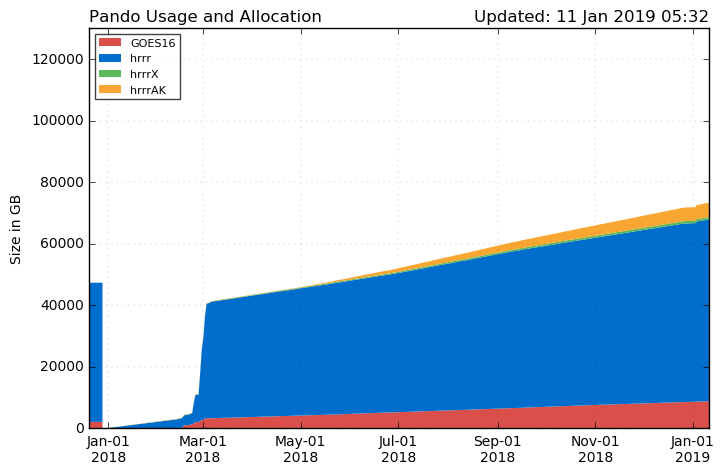
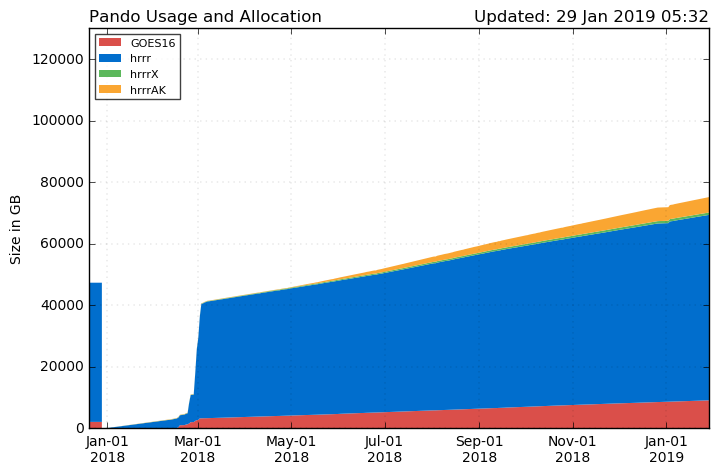
updates

diff --git a/Pando_archive/index.html b/Pando_archive/index.html
@@ -37,12 +37,12 @@
         </div>
   <br>
   <script src='./js/pando_status.js'></script>
-    <center><font size=12> 73.5 TB out of 130 TB</font>
+    <center><font size=12> 75.3 TB out of 130 TB</font>
     <div class="progress" style="max-width:700px;height:35px">
             <div class="progress-bar progress-bar-danger" role="progressbar" style="width:7%">
               <font size=4></font>
             </div>
-            <div class="progress-bar progress-bar-primary" role="progressbar" style="width:45%">
+            <div class="progress-bar progress-bar-primary" role="progressbar" style="width:46%">
               <font size=4></font>
             </div>
             <div class="progress-bar progress-bar-success" role="progressbar" style="width:1%">
@@ -64,9 +64,9 @@
         <th style='text-align:center'>Estimated Full Date</th>
       </tr>
       <tr>
-        <td>100.56 GB</td>
-        <td>561</td>
-        <td>25 July 2020</td>
+        <td>101.71 GB</td>
+        <td>537</td>
+        <td>19 July 2020</td>
       </tr>
     </table>
     <table class="table table-bordered" style='text-align:center;max-width:700px'>
@@ -80,14 +80,14 @@
       <tr>
         <th>sfc</th>
         <td>--</td>
-        <td>24.37</td>
-        <td>0.00</td>
-        <td>8.71</td>
+        <td>23.80</td>
+        <td>1.10</td>
+        <td>9.05</td>
       </tr>
       <tr>
         <th>prs</th>
         <td>--</td>
-        <td>3.58</td>
+        <td>3.56</td>
         <td>0.00</td>
         <td>0.00</td>
       </tr>
@@ -100,10 +100,10 @@
       </tr>
       <tr>
         <th>Total</th>
-        <th>16.5 GB</th>
-        <th>27.95 GB</th>
-        <th>0.00 GB</th>
-        <th>8.71 GB</th>
+        <th>16.4 GB</th>
+        <th>27.35 GB</th>
+        <th>1.10 GB</th>
+        <th>9.05 GB</th>
       </tr>
     </table>
 

diff --git a/js/site/sitemenu.js b/js/site/sitemenu.js
@@ -163,9 +163,15 @@ document.write('\
                     <li class="dropdown">\
                         <a class="dropdown-toggle" data-toggle="dropdown" href="#">Code<span class="caret"></span></a>\
                         <ul class="dropdown-menu">\
+                            <li class="dropdown-header"><i class="fab fa-github fa-fw" ></i> PyBKB_v3</li>\
+                            <li><a href="https://github.com/blaylockbk/pyBKB_v3/tree/master/BB_MesoWest">BB_MesoWest</a></li>\
+                            <li><a href="https://github.com/blaylockbk/pyBKB_v3/blob/master/BB_HRRR/HRRR_Pando.py">BB_HRRR/HRRR_Pando</a></li>\
+                            <li><a href="https://github.com/blaylockbk/pyBKB_v3/tree/master/BB_GOES">BB_GOES</a></li>\
+                                <ul>\
+                                    <li><a href="https://github.com/blaylockbk/pyBKB_v3/blob/master/BB_GOES/mapping_GOES16_TrueColor.ipynb">GOES16 True Color RGB</a>\
+                                </ul>\
+                            <li><a href="https://github.com/blaylockbk/pyBKB_v3">all others</a></li>\
                             <li class="dropdown-header"><i class="fab fa-github fa-fw" ></i> PyBKB_v2</li>\
-                            <li><a href="https://github.com/blaylockbk/pyBKB_v2/tree/master/BB_MesoWest">BB_MesoWest</a></li>\
-                            <li><a href="https://github.com/blaylockbk/pyBKB_v2/blob/master/BB_downloads/HRRR_S3.py">BB_downloads/HRRR_S3</a></li>\
                             <li><a href="https://github.com/blaylockbk/pyBKB_v2/tree/master/BB_WRF">BB_WRF</a></li>\
                             <li><a href="https://github.com/blaylockbk/pyBKB_v2">all others</a></li>\
                             <li class="dropdown-header"><i class="fa fa-code fa-fw" ></i> Other</li>\

diff --git a/home.html b/home.html
@@ -56,7 +56,7 @@
 <br>
 <div style='max-width: 900px;margin:auto;'>
 <p class="home">
-I'm from Spanish Fork, Utah and currently pursuing a PhD in atmospheric science
+I'm from Spanish Fork, Utah and currently pursuing a Ph.D. in atmospheric science
 at the University of Utah with anticipated graduation in <b>Summer 2019</b>. My advisor is 
 <a href="http://home.chpc.utah.edu/~u0035056/home/">Dr. John Horel</a>.
 
